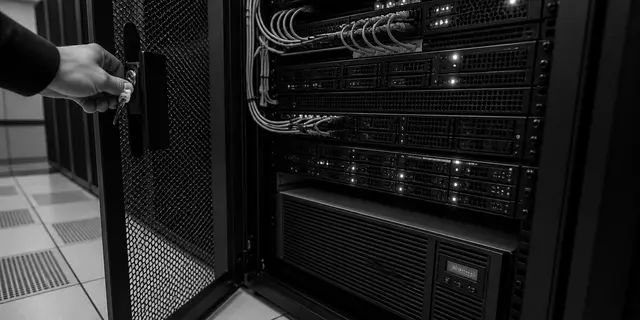
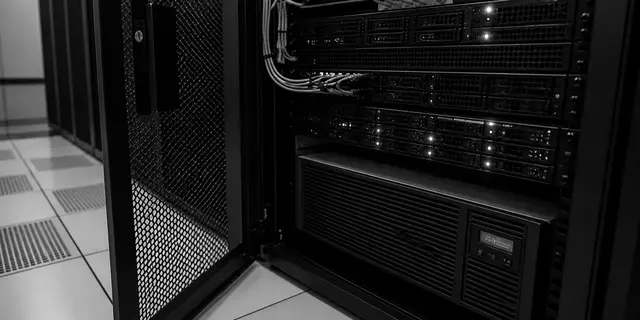
Update service card picture and text

diff --git a/index.html b/index.html
@@ -509,6 +509,49 @@ document.addEventListener('DOMContentLoaded', start);
 									</li>
 									<li>
 										<div class="service-card">
+											<svg class="svg" xmlns="http://www.w3.org/2000/svg" viewBox="0 0 24 24" width="60"
+												height="60" aria-hidden="true">
+												<path fill-rule="evenodd"
+													d="M12 1.25 3.5 5V11.15C3.5 16.27 7.05 21.05 12 22.25 16.95 21.05 20.5 16.27 20.5 11.15V5ZM12 3.35 5.35 6.35V11.15C5.35 15.15 8.05 18.85 12 19.95 15.95 18.85 18.65 15.15 18.65 11.15V6.35ZM12 7.85 8.77 9.28V11.62C8.77 13.56 10.12 15.38 12 15.83 13.88 15.38 15.23 13.56 15.23 11.62V9.28Z" />
+											</svg>
+											<h2 class="title">Безопасность</h2>
+											<p class="service-card__summary">Укрепление серверов</p>
+											<a class="ip_full_link" href="#"></a>
+											<!-- Modalbox Info -->
+											<img class="popup_service_image" data-popup-img="static/img/service/security.webp?v=2" alt=""
+												width="640" height="320" />
+											<div class="service_hidden_details">
+												<div class="service_popup_informations">
+													<div class="descriptions">
+														<p>«Да ну, какие взломы, кому мы нужны, у нас же обычный магазин», — возможно, самая дорогая фраза за всю историю бизнеса.</p>
+														<p>Видите ли, дело в том, что вас никто специально не выбирает. Там всё на потоке: скрипты методично перебирают диапазоны адресов,
+															находят необновлённый софт, в нём — известные уязвимости, а дальше... Если вам повезёт, могут сообщить об опасной находке 
+															и вежливо предложить свою помощь в устранении "дыры" за разумное вознаграждение. А могут и не попросить и не соощить, а взять и к примеру зашифровать все данные.
+															А затем потребовать выкуп за расшифровку, причем как правило уже в неразумных размерах.</p>
+														<p>Вместо шифровальщика может быть майнер, бэкдор или ботнет-хук. Или просто тихая выгрузка базы клиентов. Что, кстати, может быть хуже всего: майнер проявится через месяц по счетам за
+															хостинг, о шифровальщике почти мгновенно известят вопли в офисных чатах, а вот про утечку клиентской базы, к примеру, узнают обычно последними, и чаще всего из новостей.</p>
+														<p>Мне доводилось разбирать последствия таких историй, и знаете, выводы довольно скучные.
+															Эффектных взломов, которые показывают в кино, в реальности почти не бывает. А бывает сотрудник, который ушёл полгода назад, но затаил обиду и АПИ-ключ. 
+															Бывает админ разгильдяй, раздающий подрядчикам ssh-ключи и забывающий их отзывать. Бывают, наконец, просто недобросовестные люди со странными желаниями: подглядеть, стащить, что не тащится сломать...
+														  И это я перечислил самые интересные случаи. А обычно всё вообще банально: обновление, которое собирались поставить «на следующей
+															неделе» в позапрошлом году. Торчащий наружу порт, про который забыли или не знали. И почти всегда — сотрудник с паролем qwerty123 и его товарищ, открывающий все письма о наследстве.</p>
+														<p>Резервное копирование — это отдельная тема. Нет, бэкапы конечно же есть у всех, сейчас это просто норма приличия. Но вот на мой вопрос, тестировали ли хоть раз восстановление из этих бэкапов, уверенно отвечают единицы.
+														  А между тем бэкап, из которого ни разу не восстанавливались, — это не бэкап, а лотерея. Убаюкивающая иллюзия и возможный прямой убыток в итоге.</p>
+														<p>Сразу оговорюсь: я не "белый хакер" и не притворяюсь им. Пентест — отдельная профессия, со своей спецификой и массой нюансов, 
+															из-за которых она часто находится глубоко в серой зоне. "Белые шапки" безусловно достойны всяческого уважения, но я занимаюсь другим — операционной
+															безопасностью, DevSecOps. Именно теми простыми вещами, через которые чаще всего ломают в реальной жизни, а не в редких кейсах с конференций DefCon. 
+															И что самое интересное, эти простые вещи по факту являются причиной 95% всех кибер-инцидентов.
+															А это значит, что простой чекап и следование элементарным регламентам перемеащет ваш бизнес в топ-5% самых защищённых компаний.</p>
+														<p>Юридическую часть — 152-ФЗ, политики, уведомления — закрывают юристы, в этом плане мы с ними работаем
+															совместно. Каждый должен заниматься своим делом: я не сочиняю оферты и политики обработки персональных данных, юрист не настраивает fail2ban и ssh. 
+															Все в выигрыше, а прежде всего — бизнес заказчика.</p>
+													</div>
+												</div>
+											</div>
+										</div>
+									</li>
+									<li>
+										<div class="service-card">
 											<svg class="svg" xmlns="http://www.w3.org/2000/svg" viewBox="0 0 512 512" width="60" height="60"
 												aria-hidden="true">
 												<path
@@ -535,6 +578,42 @@ document.addEventListener('DOMContentLoaded', start);
 														<p>В общем, много всего. И со всем этим я помогаю разобраться. Систематизировать процессы,
 															подобрать и настроить инструменты: сотрудникам для удобной работы, руководителям — для
 															эффективного контроля, анализа и планирования.</p>
+													</div>
+												</div>
+											</div>
+										</div>
+									</li>
+									<li>
+										<div class="service-card">
+											<svg class="svg" xmlns="http://www.w3.org/2000/svg" viewBox="0 0 511.961 511.961" width="60"
+												height="60" aria-hidden="true">
+												<path
+													d="m489.965 120.063c0-5.77-3.31-11.028-8.512-13.524l-218.984-105.064c-4.102-1.967-8.875-1.967-12.977 0l-218.985 105.064c-5.202 2.496-8.511 7.755-8.511 13.524l-.003 271.834c0 5.77 3.31 11.028 8.512 13.524l218.989 105.065c2.051.983 4.27 1.475 6.488 1.475 2.219 0 4.438-.492 6.488-1.475l218.989-105.065c5.202-2.496 8.512-7.755 8.512-13.524zm-233.984 360.262-203.989-97.868.003-252.953 203.985-97.867 203.984 97.867.004 252.953z" />
+												<path
+													d="m417.299 146.915-154.83-74.284c-4.102-1.967-8.875-1.967-12.977 0l-154.832 74.284c-5.202 2.496-8.511 7.755-8.511 13.525l-.002 191.081c0 5.77 3.31 11.028 8.512 13.524l154.833 74.285c2.051.983 4.27 1.476 6.488 1.476 2.219 0 4.438-.492 6.488-1.476l154.833-74.285c5.202-2.496 8.512-7.755 8.512-13.524l-.003-191.081c.001-5.77-3.308-11.028-8.511-13.525zm-161.318-44.122 120.156 57.648-120.156 57.647-120.156-57.647zm-139.832 81.483 124.832 59.89v157.808l-124.833-59.893zm154.832 217.697v-157.808l124.831-59.89.002 157.805z" />
+											</svg>
+											<h2 class="title">DevOps</h2>
+											<p class="service-card__summary">Серверная инфраструктура</p>
+											<a class="ip_full_link" href="#"></a>
+											<!-- Modalbox Info -->
+											<img class="popup_service_image" data-popup-img="static/img/service/server.webp" alt=""
+												width="640" height="320" />
+											<div class="service_hidden_details">
+												<div class="service_popup_informations">
+													<div class="descriptions">
+														<p>"Ваше приложение превысило лимит памяти, и тариф был автоматически увеличен." Получали
+															когда-нибудь подобные сообщения от хостинг-провайдера? И как в таких случаях разобраться:
+															действительно ли в приложении есть проблема с утечкой памяти, или провайдер просто хочет
+															 получать с вас побольше ежемесячно?</p>
+														<p>Моя первая специализация — системный администратор. Для меня решение "залить проблему
+															деньгами" путём покупки дополнительных мощностей — это вообще не решение. Точнее, в некоторых
+															случаях оно оправдано и тоже возможно, но обычно мы всё же не решаем проблему "в лоб". Гораздо
+															интереснее разобраться в причинах перегрузки и оптимизировать использование уже имеющихся
+															ресурсов.</p>
+														<p>Имея опыт запуска и эксплуатации систем самого разного масштаба — от одностраничных сайтов на
+															виртуальном хостинге до cloud-native приложений в распределённых кластерах Kubernetes и
+															Virtuozzo, — я профессионально подберу, настрою, помогу поддерживать наиболее подходящее <b>в вашем</b> случае
+															решение.</p>
 													</div>
 												</div>
 											</div>
@@ -579,85 +658,6 @@ document.addEventListener('DOMContentLoaded', start);
 															его задачи, поймёт проблемы, и только после этого будет предлагать какие-то решения.
 															(Да-да, настоящий профессионал скорее всего предложит вам как минимум два варианта, указав
 															на плюсы и минусы каждого из них.)</p>
-													</div>
-												</div>
-											</div>
-										</div>
-									</li>
-									<li>
-										<div class="service-card">
-											<svg class="svg" xmlns="http://www.w3.org/2000/svg" viewBox="0 0 511.961 511.961" width="60"
-												height="60" aria-hidden="true">
-												<path
-													d="m489.965 120.063c0-5.77-3.31-11.028-8.512-13.524l-218.984-105.064c-4.102-1.967-8.875-1.967-12.977 0l-218.985 105.064c-5.202 2.496-8.511 7.755-8.511 13.524l-.003 271.834c0 5.77 3.31 11.028 8.512 13.524l218.989 105.065c2.051.983 4.27 1.475 6.488 1.475 2.219 0 4.438-.492 6.488-1.475l218.989-105.065c5.202-2.496 8.512-7.755 8.512-13.524zm-233.984 360.262-203.989-97.868.003-252.953 203.985-97.867 203.984 97.867.004 252.953z" />
-												<path
-													d="m417.299 146.915-154.83-74.284c-4.102-1.967-8.875-1.967-12.977 0l-154.832 74.284c-5.202 2.496-8.511 7.755-8.511 13.525l-.002 191.081c0 5.77 3.31 11.028 8.512 13.524l154.833 74.285c2.051.983 4.27 1.476 6.488 1.476 2.219 0 4.438-.492 6.488-1.476l154.833-74.285c5.202-2.496 8.512-7.755 8.512-13.524l-.003-191.081c.001-5.77-3.308-11.028-8.511-13.525zm-161.318-44.122 120.156 57.648-120.156 57.647-120.156-57.647zm-139.832 81.483 124.832 59.89v157.808l-124.833-59.893zm154.832 217.697v-157.808l124.831-59.89.002 157.805z" />
-											</svg>
-											<h2 class="title">DevOps</h2>
-											<p class="service-card__summary">Серверная инфраструктура</p>
-											<a class="ip_full_link" href="#"></a>
-											<!-- Modalbox Info -->
-											<img class="popup_service_image" data-popup-img="static/img/service/server.webp" alt=""
-												width="640" height="320" />
-											<div class="service_hidden_details">
-												<div class="service_popup_informations">
-													<div class="descriptions">
-														<p>"Ваше приложение превысило лимит памяти, и тариф был автоматически увеличен." Получали
-															когда-нибудь подобные сообщения от хостинг-провайдера? И как в таких случаях разобраться:
-															действительно ли в приложении есть проблема с утечкой памяти, или провайдер просто хочет
-															 получать с вас побольше ежемесячно?</p>
-														<p>Моя первая специализация — системный администратор. Для меня решение "залить проблему
-															деньгами" путём покупки дополнительных мощностей — это вообще не решение. Точнее, в некоторых
-															случаях оно оправдано и тоже возможно, но обычно мы всё же не решаем проблему "в лоб". Гораздо
-															интереснее разобраться в причинах перегрузки и оптимизировать использование уже имеющихся
-															ресурсов.</p>
-														<p>Имея опыт запуска и эксплуатации систем самого разного масштаба — от одностраничных сайтов на
-															виртуальном хостинге до cloud-native приложений в распределённых кластерах Kubernetes и
-															Virtuozzo, — я профессионально подберу, настрою, помогу поддерживать наиболее подходящее <b>в вашем</b> случае
-															решение.</p>
-													</div>
-												</div>
-											</div>
-										</div>
-									</li>
-									<li>
-										<div class="service-card">
-											<svg class="svg" xmlns="http://www.w3.org/2000/svg" viewBox="0 0 24 24" width="60"
-												height="60" aria-hidden="true">
-												<path fill-rule="evenodd"
-													d="M12 1.25 3.5 5V11.15C3.5 16.27 7.05 21.05 12 22.25 16.95 21.05 20.5 16.27 20.5 11.15V5ZM12 3.35 5.35 6.35V11.15C5.35 15.15 8.05 18.85 12 19.95 15.95 18.85 18.65 15.15 18.65 11.15V6.35ZM12 7.85 8.77 9.28V11.62C8.77 13.56 10.12 15.38 12 15.83 13.88 15.38 15.23 13.56 15.23 11.62V9.28Z" />
-											</svg>
-											<h2 class="title">Безопасность</h2>
-											<p class="service-card__summary">Укрепление защиты серверов</p>
-											<a class="ip_full_link" href="#"></a>
-											<!-- Modalbox Info -->
-											<img class="popup_service_image" data-popup-img="static/img/service/security.webp" alt=""
-												width="640" height="320" />
-											<div class="service_hidden_details">
-												<div class="service_popup_informations">
-													<div class="descriptions">
-														<p>«Да ну, какие взломы, кому мы нужны, у нас же обычный магазин», — возможно, самая дорогая фраза за всю историю бизнеса.</p>
-														<p>Видите ли, дело в том, что вас никто специально не выбирает. Там всё на потоке: скрипты методично перебирают диапазоны адресов,
-															находят необновлённый софт, в нём — известные уязвимости, а дальше... Если вам повезёт, могут сообщить об опасной находке 
-															и вежливо предложить свою помощь в устранении "дыры" за разумное вознаграждение. А могут и не попросить и не соощить, а взять и к примеру зашифровать все данные.
-															А затем потребовать выкуп за расшифровку, причем как правило уже в неразумных размерах.</p>
-														<p>Вместо шифровальщика может быть майнер, бэкдор или ботнет-хук. Или просто тихая выгрузка базы клиентов. Что, кстати, может быть хуже всего: майнер проявится через месяц по счетам за
-															хостинг, о шифровальщике почти мгновенно известят вопли в офисных чатах, а вот про утечку клиентской базы, к примеру, узнают обычно последними, и чаще всего из новостей.</p>
-														<p>Мне доводилось разбирать последствия таких историй, и знаете, выводы довольно скучные.
-															Эффектных взломов, которые показывают в кино, в реальности почти не бывает. А бывает сотрудник, который ушёл полгода назад, но затаил обиду и АПИ-ключ. 
-															Бывает админ разгильдяй, раздающий подрядчикам ssh-ключи и забывающий их отзывать. Бывают, наконец, просто недобросовестные люди со странными желаниями: подглядеть, стащить, что не тащится сломать...
-														  И это я перечислил самые интересные случаи. А обычно всё вообще банально: обновление, которое собирались поставить «на следующей
-															неделе» в позапрошлом году. Торчащий наружу порт, про который забыли или не знали. И почти всегда — сотрудник с паролем qwerty123 и его товарищ, открывающий все письма о наследстве.</p>
-														<p>Резервное копирование — это отдельная тема. Нет, бэкапы конечно же есть у всех, сейчас это просто норма приличия. Но вот на мой вопрос, тестировали ли хоть раз восстановление из этих бэкапов, уверенно отвечают единицы.
-														  А между тем бэкап, из которого ни разу не восстанавливались, — это не бэкап, а лотерея. Убаюкивающая иллюзия и возможный прямой убыток в итоге.</p>
-														<p>Сразу оговорюсь: я не "белый хакер" и не притворяюсь им. Пентестер — отдельная профессия, со своей спецификой и массой нюансов, 
-															из-за которых она часто находится глубоко в серой зоне. "Белые шапки" безусловно достойны всяческого уважения, но я занимаюсь другим — операционной
-															безопасностью, DevSecOps. Именно теми простыми вещами, через которые чаще всего ломают в реальной жизни, а не в редких кейсах с конференций DefCon. 
-															И что самое интересное, эти простые вещи по факту являются причиной 95% всех кибер-инцидентов.
-															А это значит, что простой чекап и следование элементарным регламентам перемеащет ваш бизнес в топ-5% самых защищённых компаний.</p>
-														<p>Юридическую часть — 152-ФЗ, политики, уведомления — закрывают юристы, в этом плане мы с ними работаем
-															совместно. Каждый должен заниматься своим делом: я не сочиняю оферты и политики обработки персональных данных, юрист не настраивает fail2ban и ssh. 
-															Все в выигрыше, а прежде всего — бизнес заказчика.</p>
 													</div>
 												</div>
 											</div>
